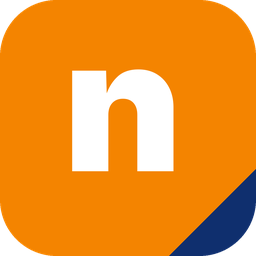
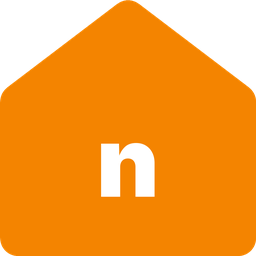
아이콘을 집 모양으로 바꿈
v0.2.1 아이콘은 나비엔 앱 아이콘의 대각 쐐기와 남색을 그대로 가져와서 나비엔
공식 자산처럼 보였다. 걷어냈다.

- 형태: 둥근 사각형 + 남색 쐐기 → 집 실루엣 (미로 통합과 동일)
- 색: 주황 + 남색 → 주황 하나
- 워드마크: 남색 → 잉크(#111827)

커뮤니티 통합 마크임이 형태에서 드러나야 한다. 색만 나비엔 주황을 쓰고 구성은
미로 통합과 같게 맞췄다. 남색은 스크립트에 참고용으로만 남긴다.

diff --git a/CHANGELOG.md b/CHANGELOG.md
@@ -1,5 +1,23 @@
 # 변경 기록
 
+## v0.2.2 — 2026-07-30
+
+아이콘 형태를 바꿨다. 동작 변화는 없다.
+
+v0.2.1 의 아이콘은 나비엔 앱 아이콘의 대각 쐐기와 남색을 그대로 가져와서
+**나비엔 공식 자산처럼 보였다.** 걷어냈다.
+
+| | v0.2.1 | v0.2.2 |
+| --- | --- | --- |
+| 형태 | 둥근 사각형 + 남색 대각 쐐기 | **집 실루엣** (미로 통합과 동일) |
+| 색 | 주황 + 남색 | **주황 하나** |
+| 워드마크 | 남색 | 잉크(`#111827`) |
+
+커뮤니티 통합 마크임이 형태에서 드러나야 한다. 색만 나비엔 주황을 쓰고 구성은
+기존 미로 통합과 같게 맞췄다 — 같은 사람이 만든 것임도 함께 드러난다.
+
+`#0F2F6E` 남색은 참고용으로만 스크립트에 남겨두고 마크에는 쓰지 않는다.
+
 ## v0.2.1 — 2026-07-30
 
 아이콘과 문서. 동작 변화는 없다.
